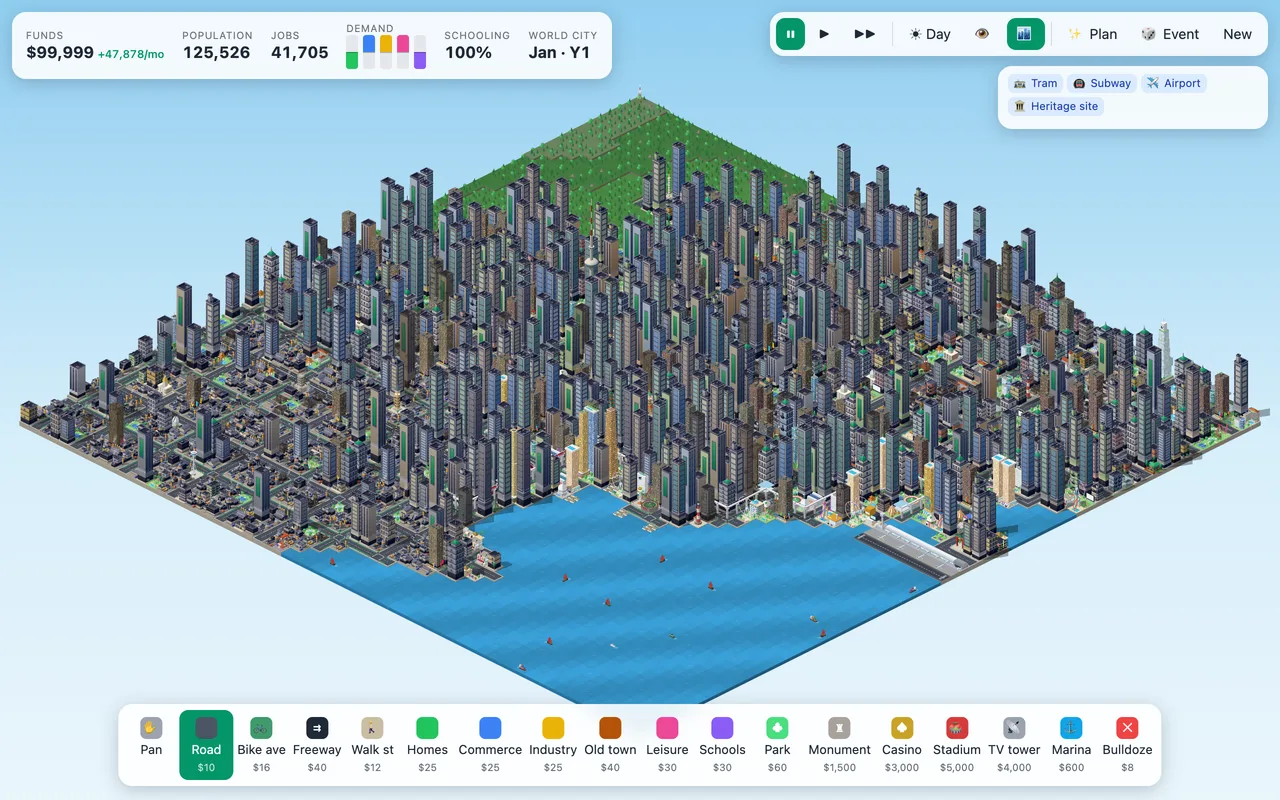
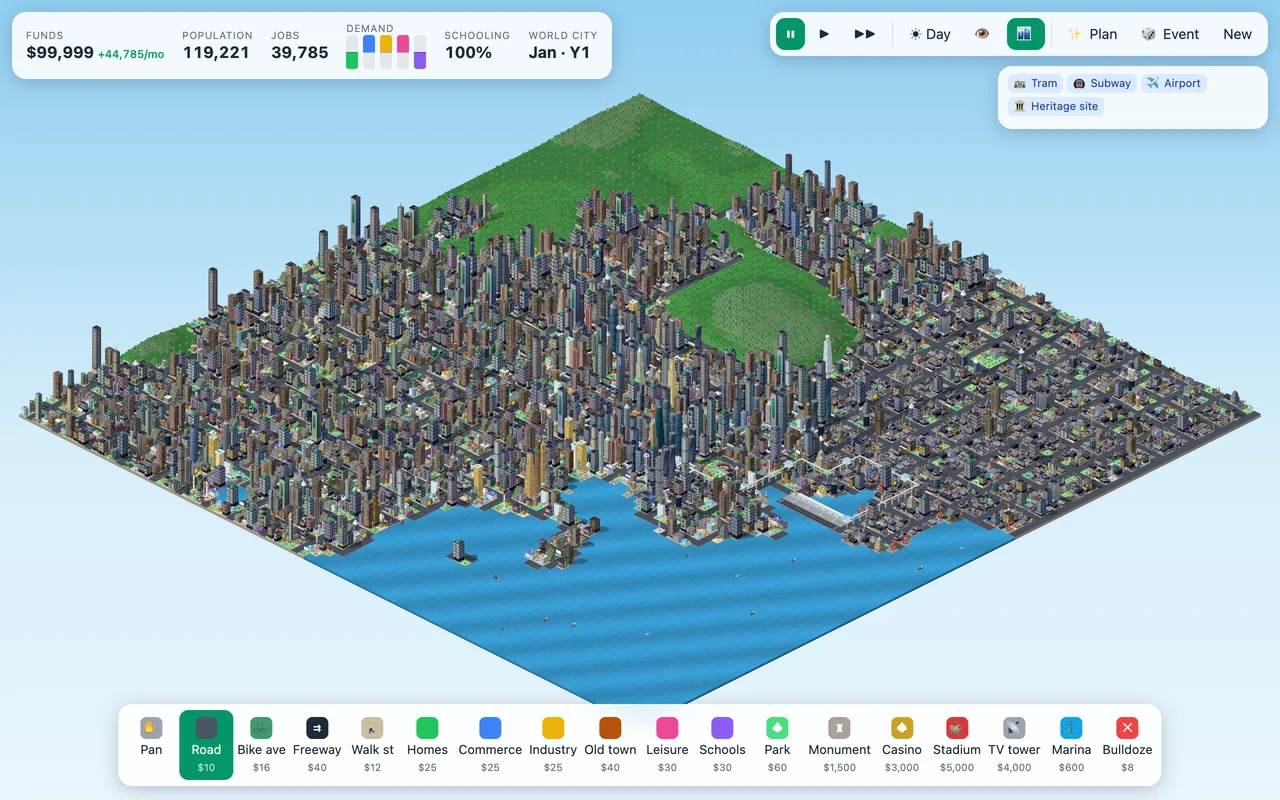
feat(projects): refresh citybuilder card for the bigger city

diff --git a/src/data/projects.ts b/src/data/projects.ts
@@ -85,7 +85,7 @@ export const projects: Project[] = [
     title: "citybuilder",
     description: "An isometric city builder between Hong Kong and Monaco",
     summary:
-      "Zone a hillside harbour town and watch it grow from villas into neon-lit towers. Trams, subways, an airport and a monorail arrive on their own as the city grows. You can add stadiums, TV towers and monuments, or press Plan to lay out a whole city at once. Everything runs in one HTML file, with 3D models baked into sprites.",
+      "Press Plan and watch a hilly harbour town grow at a slow, steady pace, from villas into business districts of neon-lit towers linked by footbridges. Roads tunnel through the hills, and trams, subways, an airport and a monorail arrive on their own. You add the landmarks (stadiums, TV towers, monuments) and trigger events. It all runs in one HTML file, with about 265 3D buildings baked into sprites.",
     category: "Culture",
     color: "#0e7490",
     url: "https://wozacosta.github.io/citybuilder/",

diff --git a/scripts/capture-project-screenshots.ts b/scripts/capture-project-screenshots.ts
@@ -111,7 +111,7 @@ const CAPTURE: Record<string, CaptureOptions> = {
   // The home page lists only a few charts; show one
   flowchart: { url: "https://flowchart.wiki/c/radiohead?mode=graph", waitMs: 6_000 },
   // A new game starts on an empty map; the demo builds out a whole city
-  citybuilder: { url: "https://wozacosta.github.io/citybuilder/?demo", waitMs: 8_000 },
+  citybuilder: { url: "https://wozacosta.github.io/citybuilder/?demo", waitMs: 10_000 },
   obrain: { prepare: scrollToReadme },
   "awesome-clear-signing": { prepare: scrollToReadme },
 };
